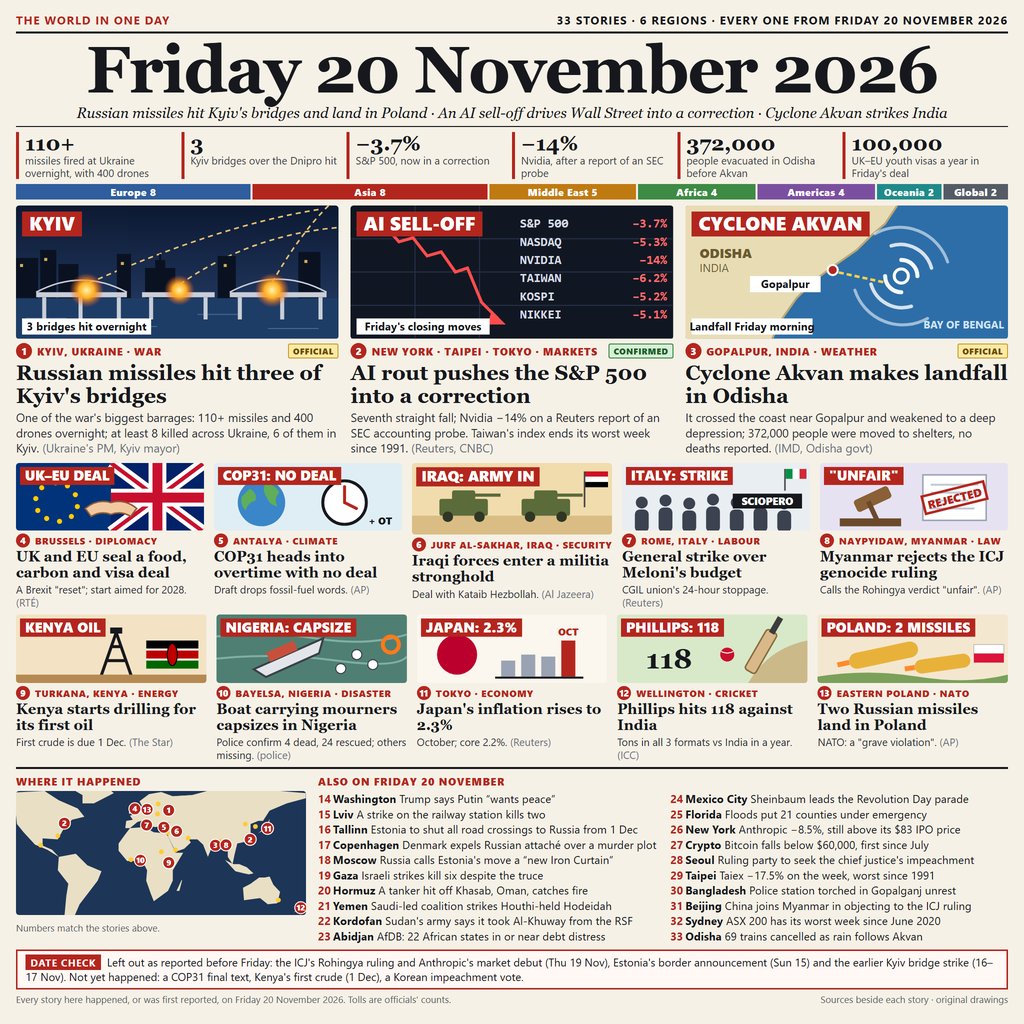
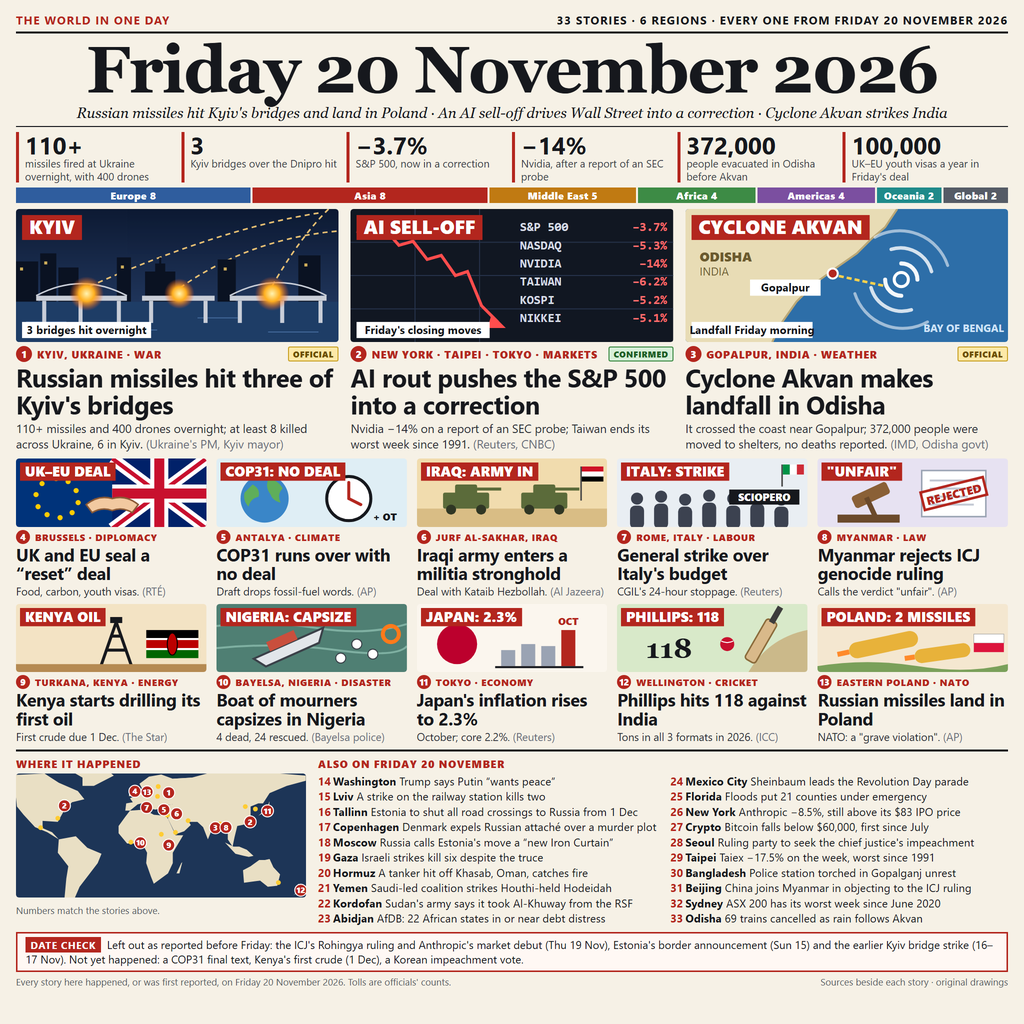
v3: larger sans headlines, one-line card captions, even card columns

diff --git a/src/front.html b/src/front.html
@@ -21,12 +21,12 @@
     padding-bottom: 5px; border-bottom: 1px solid #16181d; }
   .nums { display: grid; grid-template-columns: repeat(6, 1fr); gap: 0; margin-bottom: 7px; }
   .nums div { border-left: 3px solid #b3261e; padding: 0 6px; }
-  .nums b { display: block; font-family: Georgia, serif; font-size: 21px; line-height: 1.05; }
+  .nums b { display: block; font-family: "Segoe UI", Arial, sans-serif; font-size: 24px; font-weight: 700; line-height: 1.05; }
   .nums span { display: block; font-size: 10.5px; line-height: 1.2; color: #3b3f48; }
 
   .regions { display: flex; gap: 2px; margin: -2px 0 6px; }
   .regions span { color: #fff; font-size: 10px; font-weight: 800; text-align: center; padding: 1px 0; letter-spacing: .03em; }
-  .leads { display: grid; grid-template-columns: repeat(3, 1fr); gap: 12px; margin-bottom: 7px; }
+  .leads { display: grid; grid-template-columns: repeat(3, minmax(0, 1fr)); gap: 12px; margin-bottom: 7px; }
   .card svg { display: block; width: 100%; border-radius: 3px; }
   .kick { display: flex; align-items: center; gap: 5px; font-size: 10.5px; font-weight: 800; letter-spacing: .05em;
     text-transform: uppercase; color: #b3261e; margin-top: 4px; white-space: nowrap; }
@@ -36,13 +36,13 @@
   .t-off { background: #fde9a8; color: #6b4e00; border: 1px solid #c9a227; }
   .t-con { background: #d8efd9; color: #1d5e25; border: 1px solid #3d8b45; }
   .t-rep { background: #e2e6ee; color: #39414f; border: 1px solid #7d8696; }
-  .lead h2 { font-family: Georgia, serif; font-size: 21px; line-height: 1.1; margin-top: 2px; }
+  .lead h2 { font-family: "Segoe UI", Arial, sans-serif; font-weight: 700; font-size: 25px; line-height: 1.08; margin-top: 2px; letter-spacing: -.3px; }
   .lead p { font-size: 11.8px; line-height: 1.3; margin-top: 3px; color: #2a2d34; }
   .src { color: #6a6f7a; }
 
-  .grid5 { display: grid; grid-template-columns: repeat(5, 1fr); gap: 10px; margin-bottom: 6px; }
-  .small h3 { font-family: Georgia, serif; font-size: 14.6px; line-height: 1.1; margin-top: 1px; }
-  .small p { font-size: 10.5px; line-height: 1.25; margin-top: 2px; color: #2a2d34; }
+  .grid5 { display: grid; grid-template-columns: repeat(5, minmax(0, 1fr)); gap: 10px; margin-bottom: 6px; }
+  .small h3 { font-family: "Segoe UI", Arial, sans-serif; font-weight: 700; font-size: 17.5px; line-height: 1.08; margin-top: 1px; letter-spacing: -.2px; }
+  .small p { white-space: nowrap; overflow: hidden; text-overflow: ellipsis; font-size: 10.8px; line-height: 1.25; margin-top: 2px; color: #2a2d34; }
   .small .kick { font-size: 9.5px; margin-top: 3px; }
   .small .n { width: 14px; height: 14px; font-size: 9px; }
 
@@ -114,7 +114,7 @@
     </svg>
     <div class="kick"><span class="n">1</span>Kyiv, Ukraine · War<span class="tag t-off">OFFICIAL</span></div>
     <h2>Russian missiles hit three of Kyiv's bridges</h2>
-    <p>One of the war's biggest barrages: 110+ missiles and 400 drones overnight; at least 8 killed across Ukraine, 6 of them in Kyiv. <span class="src">(Ukraine's PM, Kyiv mayor)</span></p>
+    <p>110+ missiles and 400 drones overnight; at least 8 killed across Ukraine, 6 in Kyiv. <span class="src">(Ukraine's PM, Kyiv mayor)</span></p>
   </div>
 
   <div class="card lead">
@@ -136,7 +136,7 @@
     </svg>
     <div class="kick"><span class="n">2</span>New York · Taipei · Tokyo · Markets<span class="tag t-con">CONFIRMED</span></div>
     <h2>AI rout pushes the S&amp;P 500 into a correction</h2>
-    <p>Seventh straight fall; Nvidia −14% on a Reuters report of an SEC accounting probe. Taiwan's index ends its worst week since 1991. <span class="src">(Reuters, CNBC)</span></p>
+    <p>Nvidia −14% on a report of an SEC probe; Taiwan ends its worst week since 1991. <span class="src">(Reuters, CNBC)</span></p>
   </div>
 
   <div class="card lead">
@@ -163,7 +163,7 @@
     </svg>
     <div class="kick"><span class="n">3</span>Gopalpur, India · Weather<span class="tag t-off">OFFICIAL</span></div>
     <h2>Cyclone Akvan makes landfall in Odisha</h2>
-    <p>It crossed the coast near Gopalpur and weakened to a deep depression; 372,000 people were moved to shelters, no deaths reported. <span class="src">(IMD, Odisha govt)</span></p>
+    <p>It crossed the coast near Gopalpur; 372,000 people were moved to shelters, no deaths reported. <span class="src">(IMD, Odisha govt)</span></p>
   </div>
 </div>
 
@@ -179,8 +179,8 @@
       <text class="chip" x="4" y="4" data-s="14">UK–EU DEAL</text>
     </svg>
     <div class="kick"><span class="n">4</span>Brussels · Diplomacy</div>
-    <h3>UK and EU seal a food, carbon and visa deal</h3>
-    <p>A Brexit "reset"; start aimed for 2028. <span class="src">(RTÉ)</span></p>
+    <h3>UK and EU seal a “reset” deal</h3>
+    <p>Food, carbon, youth visas. <span class="src">(RTÉ)</span></p>
   </div>
 
   <div class="card small">
@@ -192,7 +192,7 @@
       <text class="chip" x="4" y="4" data-s="14">COP31: NO DEAL</text>
     </svg>
     <div class="kick"><span class="n">5</span>Antalya · Climate</div>
-    <h3>COP31 heads into overtime with no deal</h3>
+    <h3>COP31 runs over with no deal</h3>
     <p>Draft drops fossil-fuel words. <span class="src">(AP)</span></p>
   </div>
 
@@ -205,8 +205,8 @@
       <g transform="translate(164,8)"><rect width="22" height="5" fill="#ce1126"/><rect y="5" width="22" height="5" fill="#fff"/><rect y="10" width="22" height="5" fill="#000"/><rect x="-1" y="0" width="1.5" height="34" fill="#444"/></g>
       <text class="chip" x="4" y="4" data-s="14">IRAQ: ARMY IN</text>
     </svg>
-    <div class="kick"><span class="n">6</span>Jurf al-Sakhar, Iraq · Security</div>
-    <h3>Iraqi forces enter a militia stronghold</h3>
+    <div class="kick"><span class="n">6</span>Jurf al-Sakhar, Iraq</div>
+    <h3>Iraqi army enters a militia stronghold</h3>
     <p>Deal with Kataib Hezbollah. <span class="src">(Al Jazeera)</span></p>
   </div>
 
@@ -227,8 +227,8 @@
       <text class="chip" x="4" y="4" data-s="14">ITALY: STRIKE</text>
     </svg>
     <div class="kick"><span class="n">7</span>Rome, Italy · Labour</div>
-    <h3>General strike over Meloni's budget</h3>
-    <p>CGIL union's 24-hour stoppage. <span class="src">(Reuters)</span></p>
+    <h3>General strike over Italy's budget</h3>
+    <p>CGIL's 24-hour stoppage. <span class="src">(Reuters)</span></p>
   </div>
 
   <div class="card small">
@@ -240,9 +240,9 @@
       <g transform="rotate(-14 136 35)"><rect x="104" y="26" width="64" height="18" fill="none" stroke="#b3261e" stroke-width="2.5"/><text x="136" y="40" font-family="Segoe UI,Arial" font-weight="900" font-size="11.5" fill="#b3261e" text-anchor="middle">REJECTED</text></g>
       <text class="chip" x="4" y="4" data-s="14">"UNFAIR"</text>
     </svg>
-    <div class="kick"><span class="n">8</span>Naypyidaw, Myanmar · Law</div>
-    <h3>Myanmar rejects the ICJ genocide ruling</h3>
-    <p>Calls the Rohingya verdict "unfair". <span class="src">(AP)</span></p>
+    <div class="kick"><span class="n">8</span>Myanmar · Law</div>
+    <h3>Myanmar rejects ICJ genocide ruling</h3>
+    <p>Calls the verdict "unfair". <span class="src">(AP)</span></p>
   </div>
 </div>
 
@@ -259,8 +259,8 @@
       <text class="chip" x="4" y="4" data-s="14">KENYA OIL</text>
     </svg>
     <div class="kick"><span class="n">9</span>Turkana, Kenya · Energy</div>
-    <h3>Kenya starts drilling for its first oil</h3>
-    <p>First crude is due 1 Dec. <span class="src">(The Star)</span></p>
+    <h3>Kenya starts drilling its first oil</h3>
+    <p>First crude due 1 Dec. <span class="src">(The Star)</span></p>
   </div>
 
   <div class="card small">
@@ -274,8 +274,8 @@
       <text class="chip" x="4" y="4" data-s="14">NIGERIA: CAPSIZE</text>
     </svg>
     <div class="kick"><span class="n">10</span>Bayelsa, Nigeria · Disaster</div>
-    <h3>Boat carrying mourners capsizes in Nigeria</h3>
-    <p>Police confirm 4 dead, 24 rescued; others missing. <span class="src">(police)</span></p>
+    <h3>Boat of mourners capsizes in Nigeria</h3>
+    <p>4 dead, 24 rescued. <span class="src">(Bayelsa police)</span></p>
   </div>
 
   <div class="card small">
@@ -304,7 +304,7 @@
     </svg>
     <div class="kick"><span class="n">12</span>Wellington · Cricket</div>
     <h3>Phillips hits 118 against India</h3>
-    <p>Tons in all 3 formats vs India in a year. <span class="src">(ICC)</span></p>
+    <p>Tons in all 3 formats in 2026. <span class="src">(ICC)</span></p>
   </div>
 
   <div class="card small">
@@ -317,7 +317,7 @@
       <path d="M0 62 Q 50 54 100 62 T 190 60 V70 H0Z" fill="#7aa05a"/>
     </svg>
     <div class="kick"><span class="n">13</span>Eastern Poland · NATO</div>
-    <h3>Two Russian missiles land in Poland</h3>
+    <h3>Russian missiles land in Poland</h3>
     <p>NATO: a "grave violation". <span class="src">(AP)</span></p>
   </div>
 </div>
